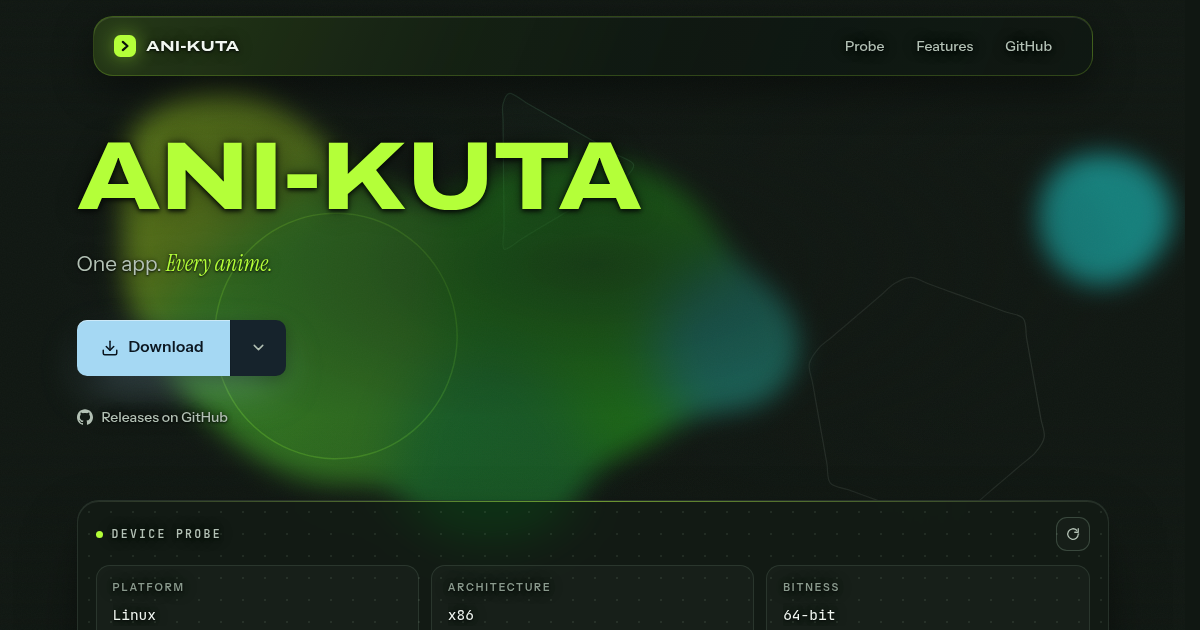
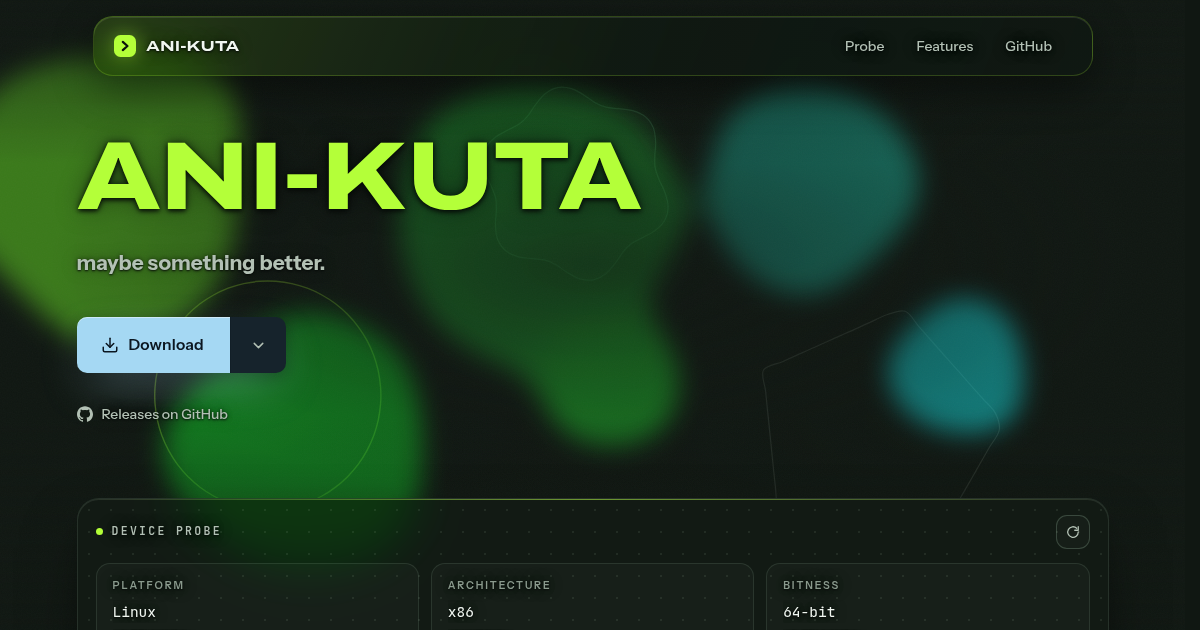
feat: v9 — hero tagline 'maybe something better.' (simple bold), drop extension-name clause from disclaimer, metas + og.png resync

diff --git a/index.html b/index.html
@@ -4,20 +4,20 @@
   <meta charset="utf-8">
   <meta name="viewport" content="width=device-width, initial-scale=1">
   <title>ANI-KUTA — Download for Android</title>
-  <meta name="description" content="ANI-KUTA — one app for every anime. Probe your device, pick the right build — arm64-v8a, armeabi-v7a, x86, x86_64 or universal — and grab the APK.">
+  <meta name="description" content="ANI-KUTA — maybe something better. Probe your device, pick the right build — arm64-v8a, armeabi-v7a, x86, x86_64 or universal — and grab the APK.">
   <meta name="theme-color" content="#101712">
   <link rel="icon" type="image/svg+xml" href="favicon.svg">
   <meta property="og:title" content="ANI-KUTA — Download for Android">
-  <meta property="og:description" content="ANI-KUTA — one app for every anime. Probe your device, pick the right build, grab the APK.">
+  <meta property="og:description" content="ANI-KUTA — maybe something better. Probe your device, pick the right build, grab the APK.">
   <meta property="og:url" content="https://confused-creature-180.github.io/ANI-KUTA/">
   <meta property="og:image" content="https://confused-creature-180.github.io/ANI-KUTA/og.png">
   <meta property="og:image:width" content="1200">
   <meta property="og:image:height" content="630">
-  <meta property="og:image:alt" content="ANI-KUTA — one app for every anime. Download page with device probe and build picker.">
+  <meta property="og:image:alt" content="ANI-KUTA — maybe something better. Download page with device probe and build picker.">
   <meta name="twitter:card" content="summary_large_image">
   <link rel="preconnect" href="https://fonts.googleapis.com">
   <link rel="preconnect" href="https://fonts.gstatic.com" crossorigin>
-  <link href="https://fonts.googleapis.com/css2?family=Archivo:ital,wdth,wght@0,110..125,600..800&family=Instrument+Sans:wght@400;500;600&family=Instrument+Serif:ital@1&family=JetBrains+Mono:wght@400;600&display=swap" rel="stylesheet">
+  <link href="https://fonts.googleapis.com/css2?family=Archivo:ital,wdth,wght@0,110..125,600..800&family=Instrument+Sans:wght@400;500;600;700&family=JetBrains+Mono:wght@400;600&display=swap" rel="stylesheet">
   <style>
     /* ==========================================================================
        ANI-KUTA — "LIVING GREEN" design system v7
@@ -62,7 +62,6 @@
       --ease-close: cubic-bezier(0.4, 0, 1, 1);
       --font-display: "Archivo", system-ui, sans-serif;
       --font-body: "Instrument Sans", system-ui, sans-serif;
-      --font-serif: "Instrument Serif", Georgia, serif;
       --font-mono: "JetBrains Mono", ui-monospace, "SF Mono", Menlo, monospace;
     }
 
@@ -351,15 +350,6 @@
         0 2px 4px rgba(6, 10, 8, 0.9),
         0 0 9px rgba(6, 10, 8, 0.6),
         0 0 26px rgba(6, 10, 8, 0.4);
-    }
-
-    .ak-h1-em {
-      font-family: var(--font-serif);
-      font-style: italic;
-      font-weight: 400;
-      font-size: 1.08em;
-      letter-spacing: 0;
-      color: var(--accent);
     }
 
     /* Brand headline (v6): the name itself, bold green, with a proper
@@ -1386,7 +1376,7 @@
           <div class="ak-hero-inner">
             <h1 class="ak-h1 ak-h1-brand ak-rise" style="--d:0ms">ANI&#8209;KUTA</h1>
 
-            <p class="ak-hero-sub ak-rise" style="--d:80ms">One app. <em class="ak-h1-em">Every anime.</em></p>
+            <p class="ak-hero-sub ak-rise" style="--d:80ms"><b>maybe something better.</b></p>
 
             <div class="ak-cta ak-rise" style="--d:240ms" id="download">
               <div class="ak-cta-wrap" id="ak-cta-wrap">
@@ -1576,7 +1566,7 @@
             </div>
             <ul class="ak-legal-list">
               <li><b>Zero content.</b> ANI-KUTA itself hosts, streams and stores nothing — everything you watch arrives through extensions you choose to install, from third-party providers the app has no connection to.</li>
-              <li><b>No affiliation.</b> The developer(s) are not affiliated with, endorsed by, or connected to any content provider available through community extensions — nor with Aniyomi, Anikku, Mihon or Tachiyomi.</li>
+              <li><b>No affiliation.</b> The developer(s) are not affiliated with, endorsed by, or connected to any content provider.</li>
               <li><b>Your responsibility.</b> You are responsible for the media you access and for complying with the laws and the terms of service of the providers those extensions reach.</li>
             </ul>
           </div>
